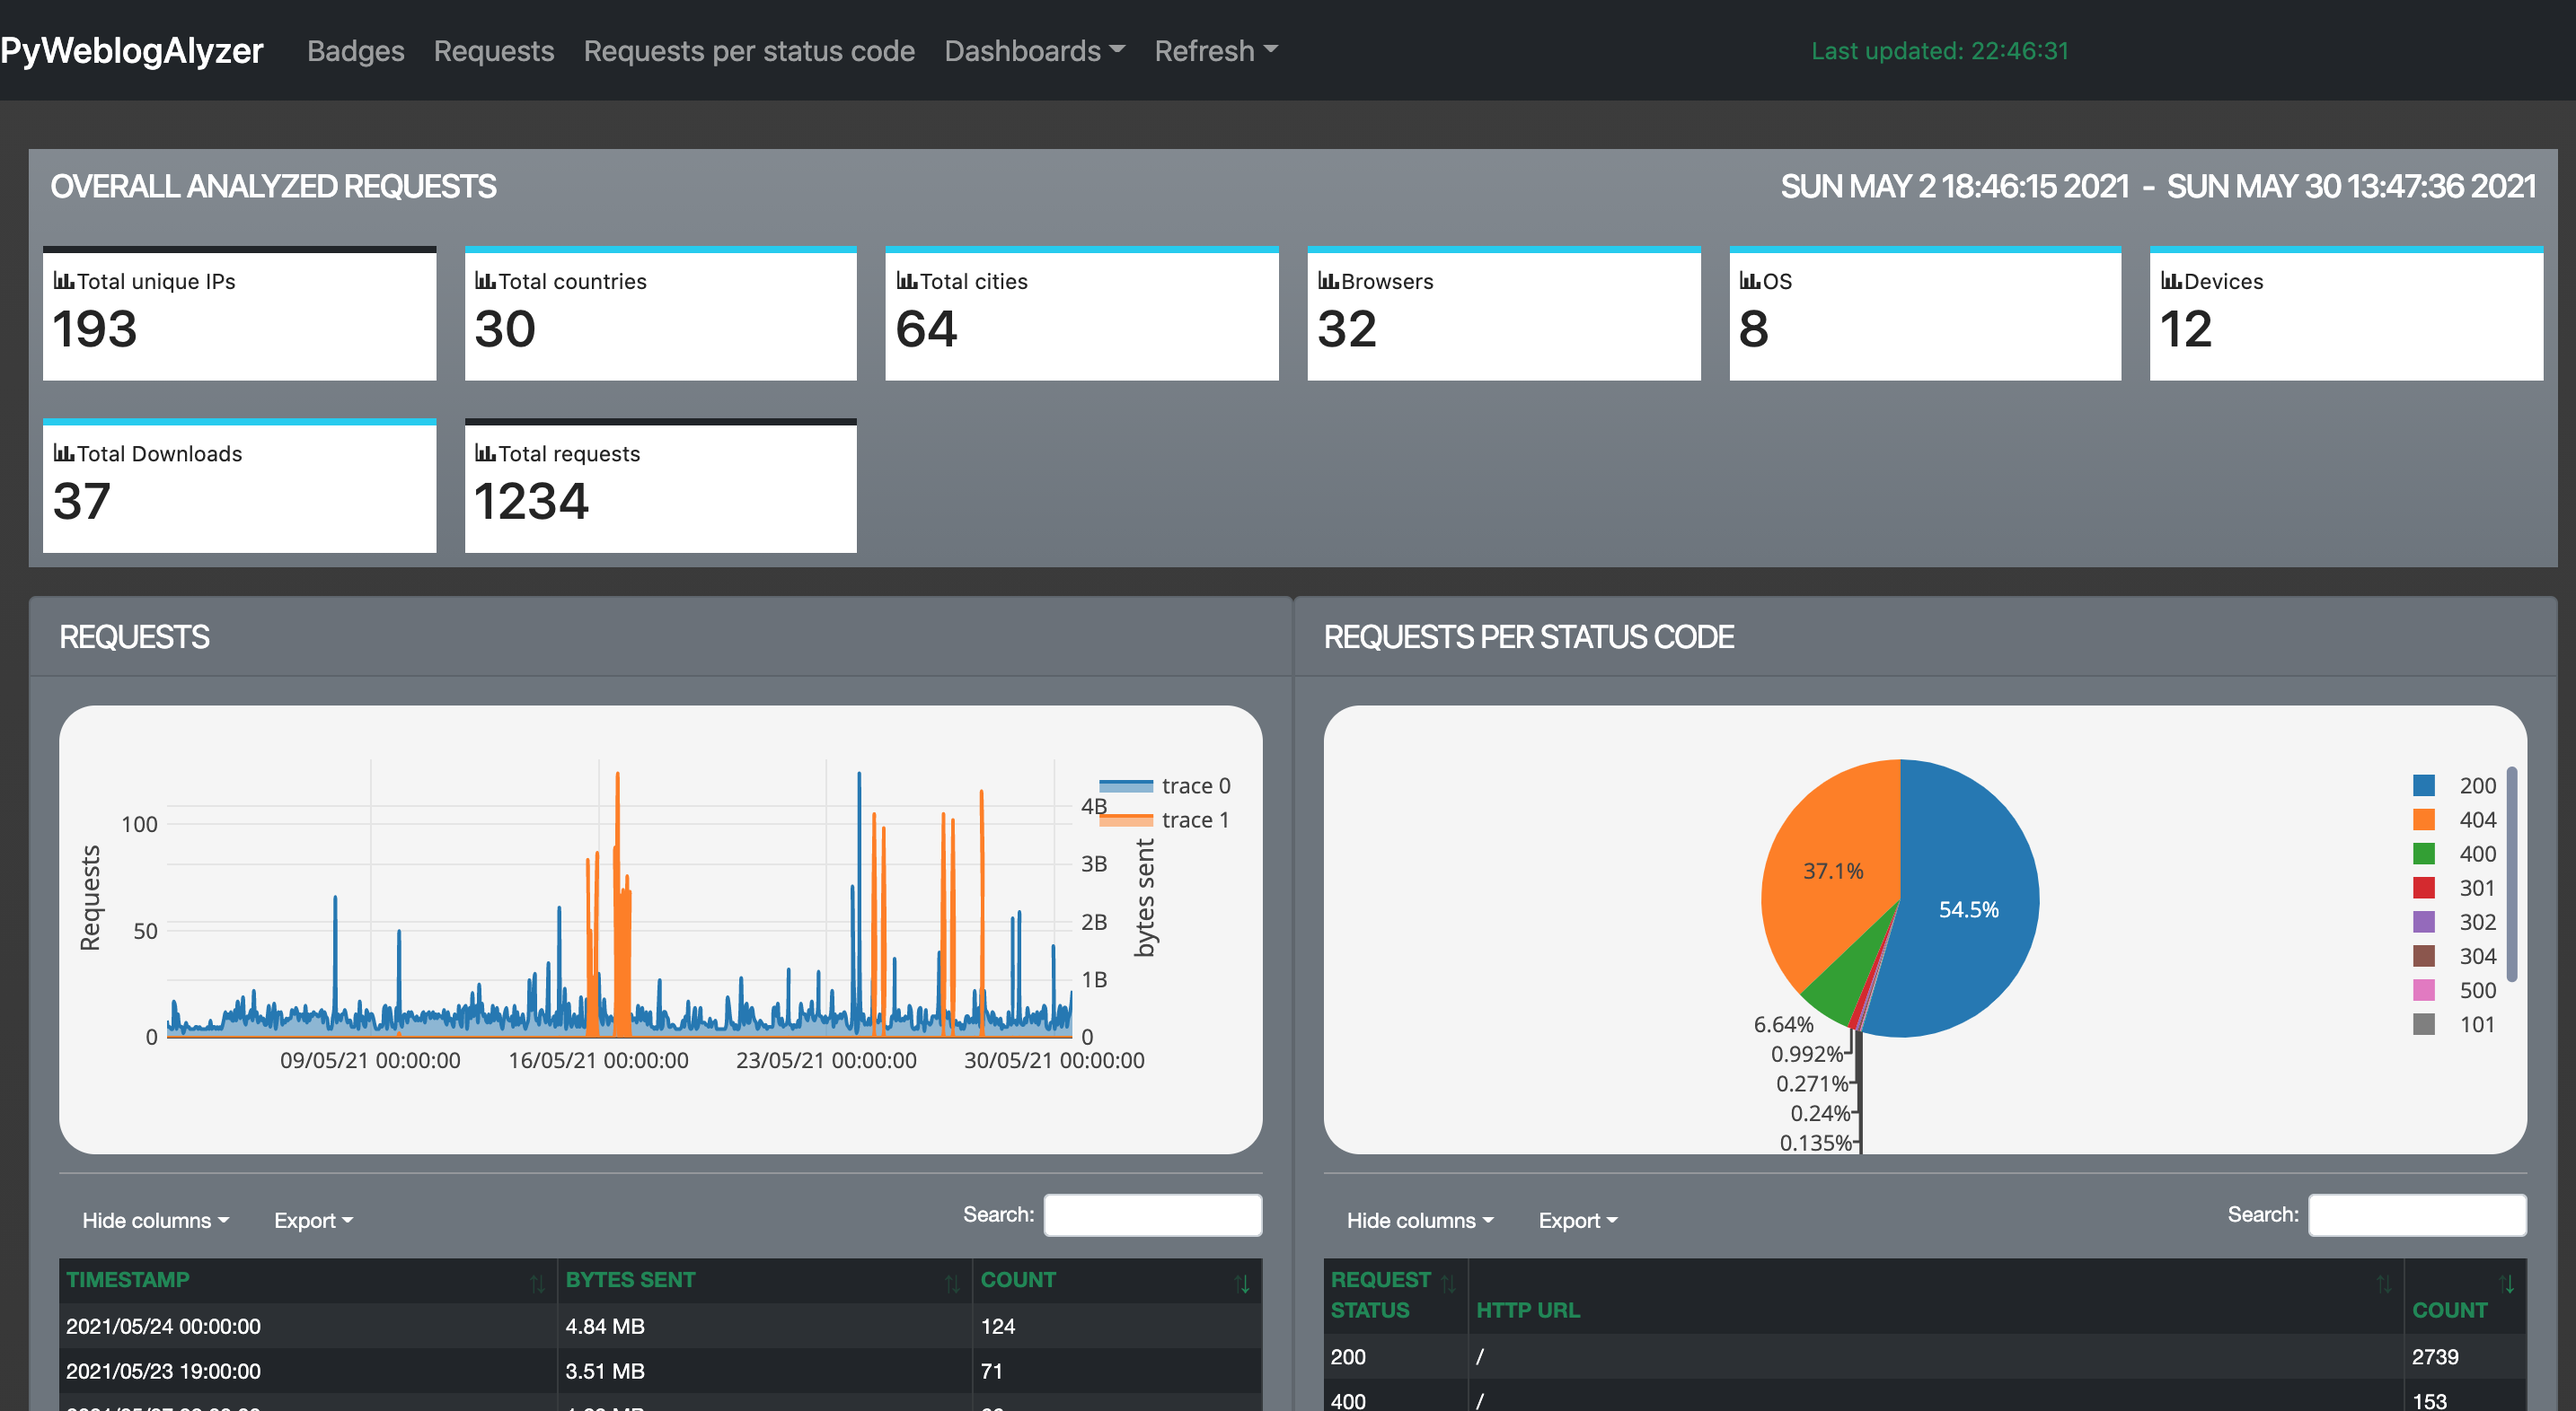
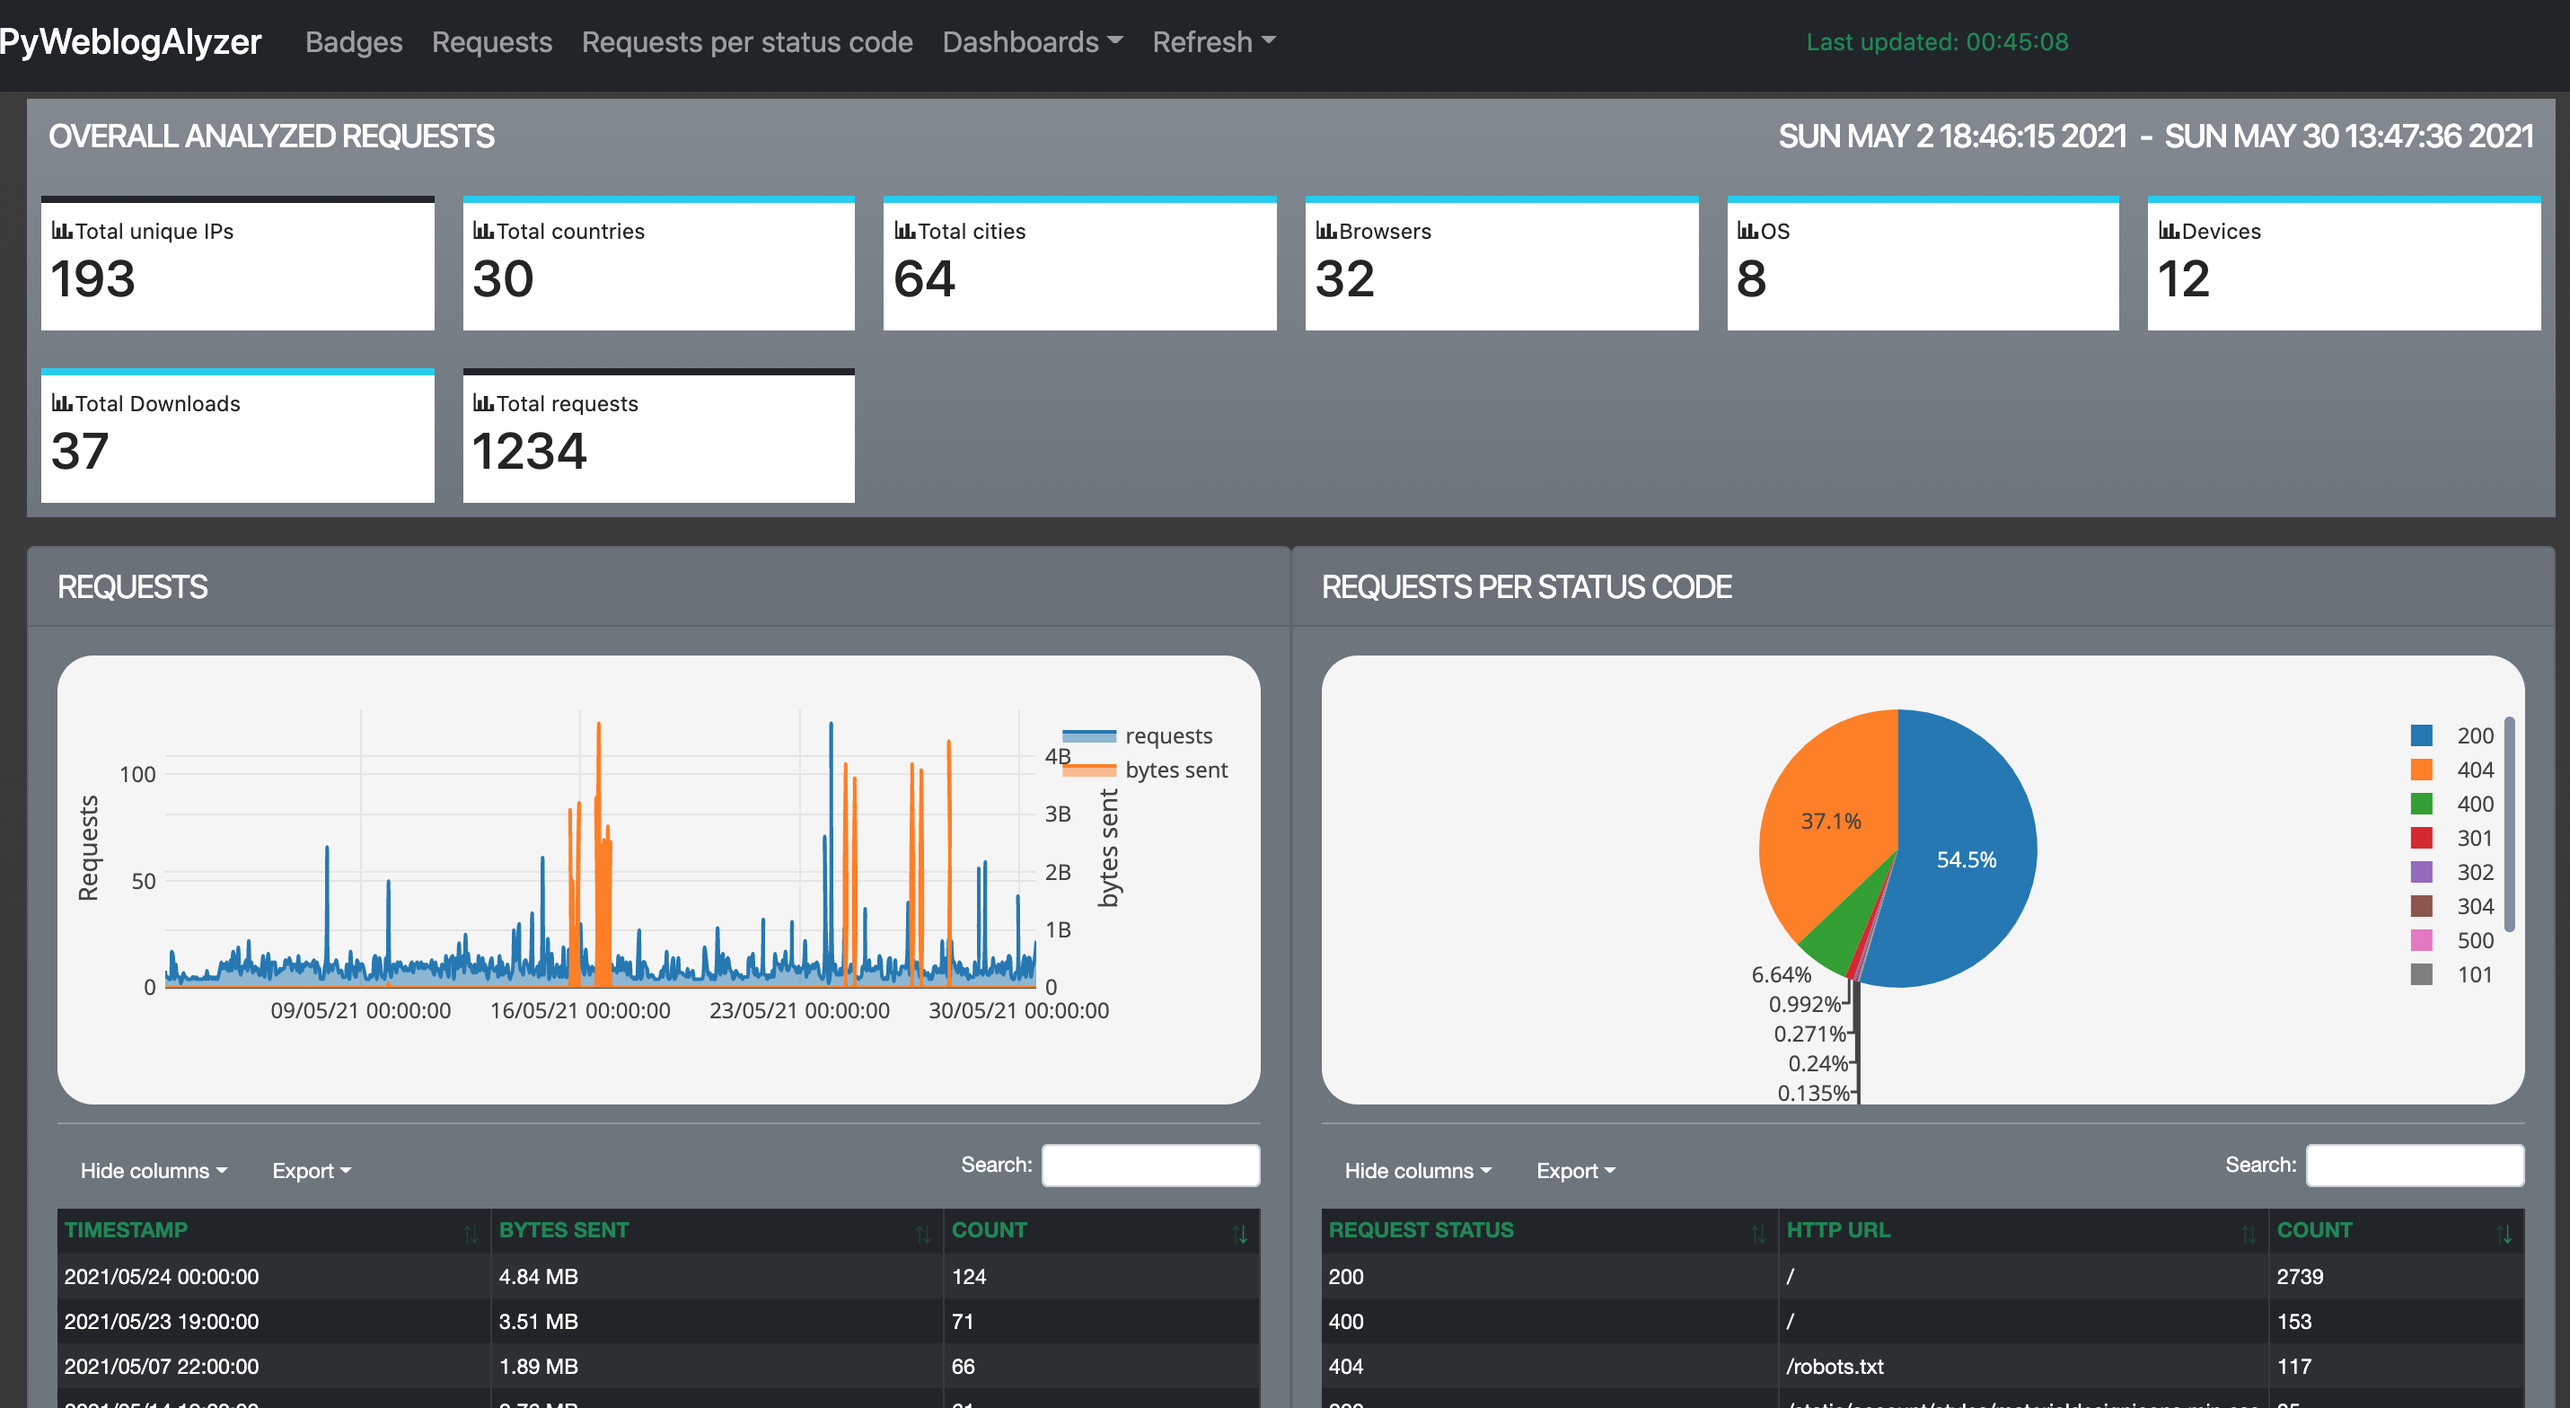
Fix graph labels

diff --git a/src/pyweblogalyzer/config.py b/src/pyweblogalyzer/config.py
@@ -26,7 +26,7 @@ class Config(object):
     # Path to the access log file. If the path is a folder, all access.log files in the folder will be parsed.
     # Optionally if a WEB_LOG_FILTER is specified, only files containing the filter will be processed.
     # For docker, the logs must be in a mapped path
-    WEB_LOG_PATH = "etc/dev"
+    WEB_LOG_PATH = "etc/config/"
     WEB_LOG_FILTER = "access.log"
 
     # Date and time parsing string. Reference:
@@ -36,8 +36,8 @@ class Config(object):
     # Maxmind geoip database location. To get the free database register and download the files see link below.
     # Ideally use the updater to keep them up to date:
     # https://dev.maxmind.com/geoip/geolite2-free-geolocation-data
-    GEOIP_CITY_DB = '/Users/viv/GoogleDrive/dev/pyweblogalyzer/etc/dev/GeoLite2-City.mmdb'
-    GEOIP_ASN_DB = '/Users/viv/GoogleDrive/dev/pyweblogalyzer/etc/dev/GeoLite2-ASN.mmdb'
+    GEOIP_CITY_DB = 'etc/config/GeoLite2-City.mmdb'
+    GEOIP_ASN_DB = 'etc/config/GeoLite2-ASN.mmdb'
 
     # Log format. The following info are accepted, use {} to ignore
     # remote_ip:  Remote client IP
@@ -63,17 +63,11 @@ class Config(object):
 
     # Root path of log enrichers. All custom classes must be in this folder (or subfolders)
     # For docker, the logs must be in a mapped path
-    LOG_ENRICHERS_ROOT = "/Users/viv/dev/pyweblogalyzer/etc/dev/log_enrichers"
+    LOG_ENRICHERS_ROOT = "etc/config/log_enrichers"
     # Custom log enrichers, defined by the location of the main python file, and the class name.
     # All enrichers must inherit LogEnrichers (see collector/log_enrichers.py for more details).
     # Each enricher will be called with every parsed log entry, and can add auxiliary informations to them
-    LOG_ENRICHERS = [
-        {
-            'class_path': "dwarferie.py",
-            'class_name': 'DwarferieEnricher',
-            'config': {'kodi_url': '192.168.0.199', 'kodi_port': 8080}
-        }
-    ]
+    LOG_ENRICHERS = []
 
     #
     # Dashboards settings
@@ -138,8 +132,8 @@ class Config(object):
             "table_order": "count",
             "graph_config": {
                 'data': [
-                    {'title': 'requests', 'type': 'scatter', 'x': "timestamp", 'y': "count"},
-                    {'title': 'byte sent', 'type': 'scatter', 'x': "timestamp", 'y': "bytes_sent", 'yaxis': 'y2'}
+                    {'name': 'requests', 'type': 'scatter', 'x': "timestamp", 'y': "count"},
+                    {'name': 'bytes sent', 'type': 'scatter', 'x': "timestamp", 'y': "bytes_sent", 'yaxis': 'y2'}
                 ],
                 'layout': {
                     'xaxis': {'type': 'date', 'tickformat': '%d/%m/%y %H:%M:%S'},
@@ -296,19 +290,6 @@ class Config(object):
             },
             "on_click": "ctxt_devices",
         },
-        "downloads": {
-            "badge_title": "Total Downloads",
-            "badge_type": "info",
-            "table_title": "Downloads",
-            "count_title": None,
-            "table_order": "timestamp",
-            "table_hide": ["aux_kodi_type"],
-            "display_cols": [
-                "timestamp", "aux_kodi_item", "remote_ip", "city", "country", "bytes_sent", "request_time", "asn", "aux_kodi_type"
-            ],
-            "group_by_cols": None,
-            "on_click": "ctxt_downloads",
-        },
         "logs": {
             "badge_title": "Total requests",
             "table_title": "Logs",
@@ -338,21 +319,4 @@ class Config(object):
         "ctxt_devices": {"contextual": True, "table_title": "Requests from device {}", "filter": "device"},
         "ctxt_os": {"contextual": True, "table_title": "Requests from OS {}", "filter": "os"},
         "ctxt_logs": {"contextual": True, "table_title": "Logs at {}", "filter": "timestamp"},
-        "ctxt_downloads":
-        {
-            "contextual": True,
-            "table_title": "Downloads from {}",
-            "filter": "aux_kodi_type",
-            "group_by_cols": ["remote_ip"],
-            "display_cols": [
-                "aux_kodi_item",
-                "remote_ip", "city",
-                "country",
-                "asn",
-                "bytes_sent",
-                "request_time",
-                "timestamp",
-                "request_status",
-            ]
-        },
     }

diff --git a/etc/config/config.py b/etc/config/config.py
@@ -130,8 +130,8 @@ DASHBOARDS_CONFIG = {
         "table_order": "count",
         "graph_config": {
             'data': [
-                {'title': 'requests', 'type': 'scatter', 'x': "timestamp", 'y': "count"},
-                {'title': 'byte sent', 'type': 'scatter', 'x': "timestamp", 'y': "bytes_sent", 'yaxis': 'y2'}
+                {'name': 'requests', 'type': 'scatter', 'x': "timestamp", 'y': "count"},
+                {'name': 'bytes sent', 'type': 'scatter', 'x': "timestamp", 'y': "bytes_sent", 'yaxis': 'y2'}
             ],
             'layout': {
                 'xaxis': {'type': 'date', 'tickformat': '%d/%m/%y %H:%M:%S'},
